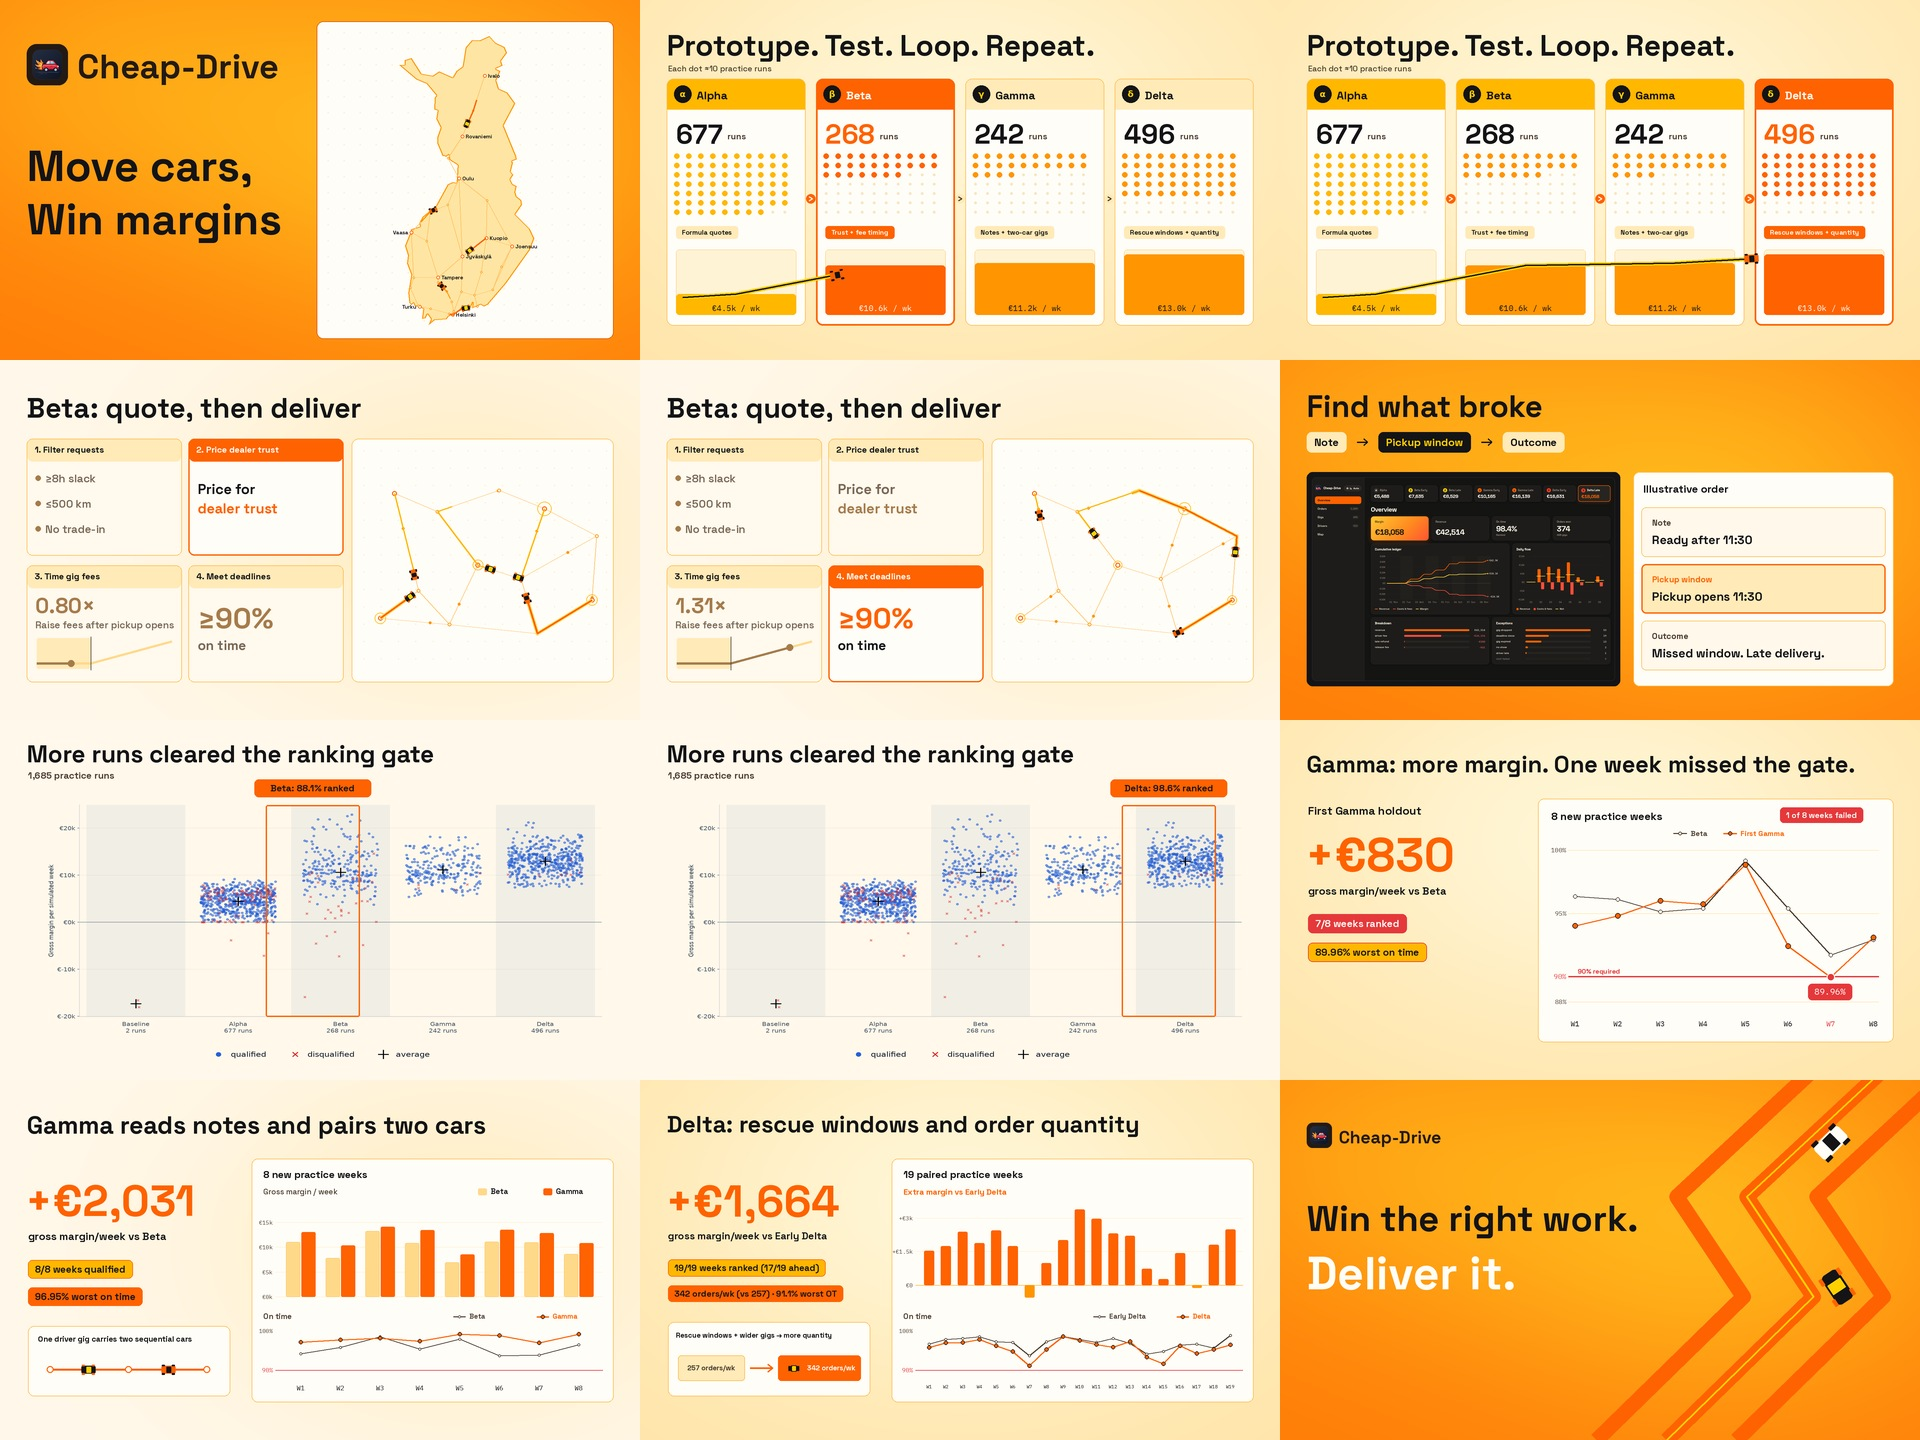
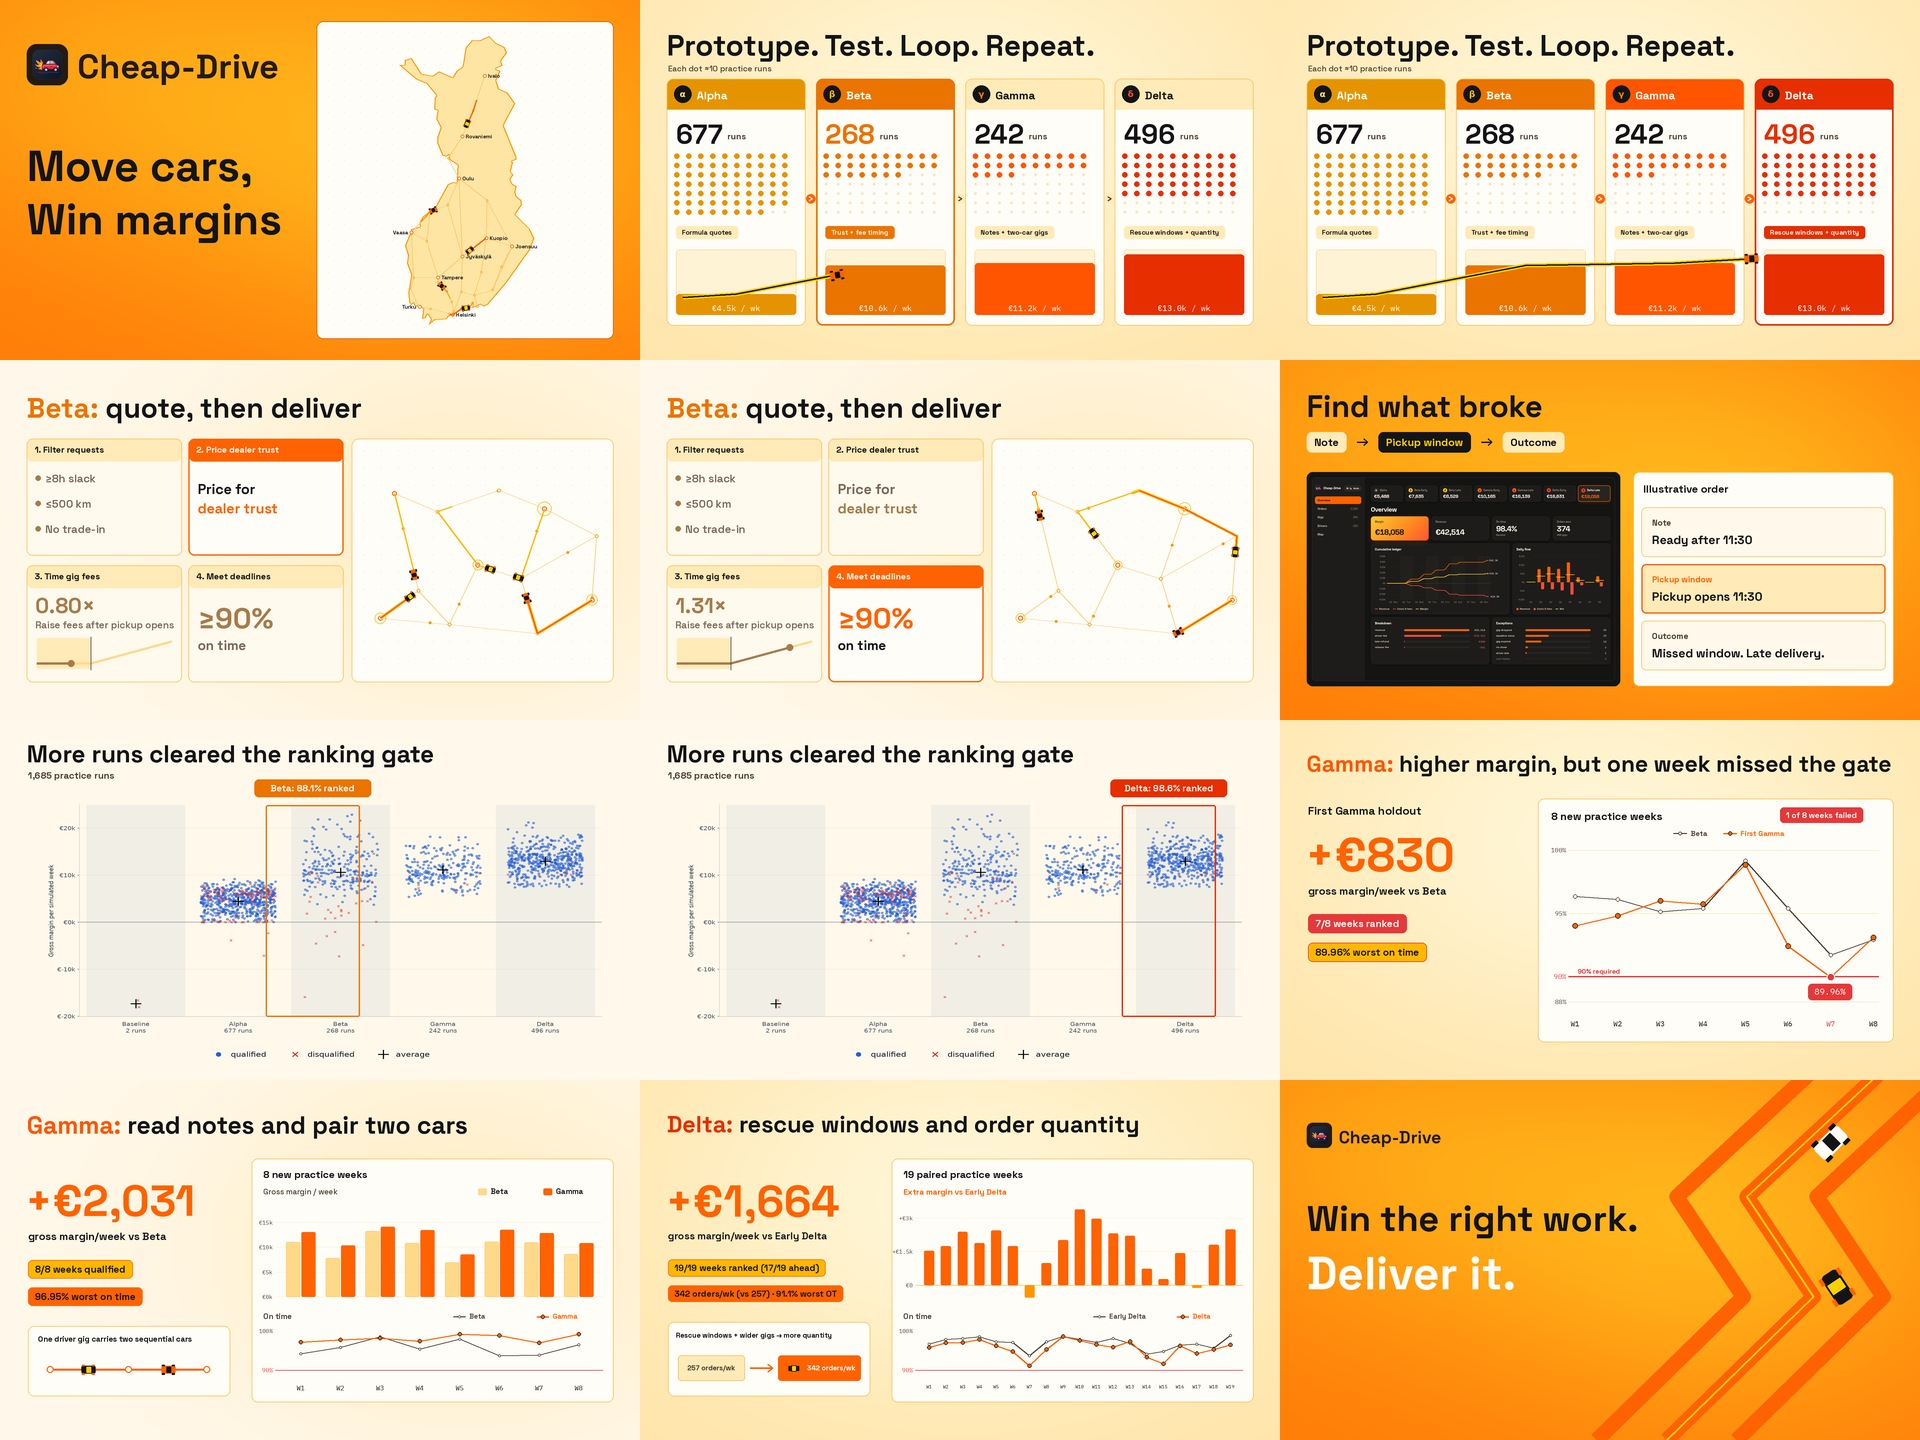
Fix Slide 6 heading sentence and color model names in slide headers

diff --git a/docs/demo-video/index.html b/docs/demo-video/index.html
@@ -40,8 +40,8 @@
 </head>
 <body>
   <main class="stage">
-    <video controls autoplay loop playsinline preload="auto" poster="poster.png?v=1685s" src="cheap-drive-demo.mp4?v=1685s">
-      <track kind="captions" src="captions.vtt?v=1685s" srclang="en" label="English">
+    <video controls autoplay loop playsinline preload="auto" poster="poster.png?v=1685t" src="cheap-drive-demo.mp4?v=1685t">
+      <track kind="captions" src="captions.vtt?v=1685t" srclang="en" label="English">
     </video>
   </main>
 </body>

diff --git a/docs/demo-video/render.py b/docs/demo-video/render.py
@@ -172,6 +172,20 @@ def enter(im, text, x, y, size, t, delay=0, color=INK, weight=600, mono=False, s
     im.paste(layer, (0, 0), layer)
 
 
+def enter_model_hdr(im, model_prefix, rest_text, x, y, size, t, delay=0, model_color=ORANGE, rest_color=INK, weight=700, span=0.38):
+    p = ease((t - delay) / span)
+    if p <= 0:
+        return
+    layer = Image.new('RGBA', (W, H))
+    yy = y + (1 - p) * 28
+    txt(layer, model_prefix, x, yy, size, model_color, weight)
+    pw = font(size, weight).getbbox(model_prefix)[2]
+    txt(layer, rest_text, x + pw, yy, size, rest_color, weight)
+    if p < 1:
+        layer.putalpha(layer.getchannel('A').point(lambda a: round(a * p)))
+    im.paste(layer, (0, 0), layer)
+
+
 def route_point(points, p):
     p = clamp(p)
     ds = [math.dist(points[i], points[i + 1]) for i in range(len(points) - 1)]
@@ -462,14 +476,14 @@ def evolution(t):
     focus_idx = min(3, int(p_car * 3.999))
 
     protos = [
-        ('α', 'Alpha', 677, 68, 4466, 'Formula quotes', MARIGOLD),
-        ('β', 'Beta', 268, 27, 10602, 'Trust + fee timing', MANGO),
-        ('γ', 'Gamma', 242, 24, 11157, 'Notes + two-car gigs', MANGO),
-        ('δ', 'Delta', 496, 50, 12975, 'Rescue windows + quantity', MANGO),
+        ('α', 'Alpha', 677, 68, 4466, 'Formula quotes', '#E59400', '#FFE066'),
+        ('β', 'Beta', 268, 27, 10602, 'Trust + fee timing', '#EB7300', '#FFB700'),
+        ('γ', 'Gamma', 242, 24, 11157, 'Notes + two-car gigs', '#FF5500', '#FF8000'),
+        ('δ', 'Delta', 496, 50, 12975, 'Rescue windows + quantity', '#E62E00', '#FF4D2E'),
     ]
 
     curve_pts = []
-    for i, (greek_sym, name, r_cnt, n_dots, mgn, tag, col) in enumerate(protos):
+    for i, (greek_sym, name, r_cnt, n_dots, mgn, tag, col, greek_col) in enumerate(protos):
         cx = 80 + i * 448
         cw = 416
         cy, cy2 = 236, 976
@@ -477,20 +491,20 @@ def evolution(t):
         is_focus = i == focus_idx
 
         rect(im, (cx, cy, cx + cw, cy2), CARD, None, r=20)
-        hdr_bg = ORANGE if is_focus else (MARIGOLD if i < focus_idx else APRICOT)
-        hdr_fg = CARD if is_focus else INK
+        hdr_bg = col if is_focus else (col if i < focus_idx else APRICOT)
+        hdr_fg = CARD if i <= focus_idx else INK
         rect(im, (cx, cy, cx + cw, cy + 92), hdr_bg, None, r=20)
         rect(im, (cx, cy + 70, cx + cw, cy + 92), hdr_bg, None, r=0)
-        rect(im, (cx, cy, cx + cw, cy2), None, ORANGE if is_focus else GOLD_LINE, r=20, width=5 if is_focus else 2)
+        rect(im, (cx, cy, cx + cw, cy2), None, col if is_focus else GOLD_LINE, r=20, width=5 if is_focus else 2)
 
         # Greek letter & Name
         circle(im, cx + 48, cy + 46, 26, INK)
-        ImageDraw.Draw(im).text((round(cx + 48), round(cy + 46)), greek_sym, font=GREEK_FONT, fill=SUNBURST, anchor='mm')
+        ImageDraw.Draw(im).text((round(cx + 48), round(cy + 46)), greek_sym, font=GREEK_FONT, fill=greek_col, anchor='mm')
         txt(im, name, cx + 90, cy + 28, 34, hdr_fg, 700)
 
         # Run count & dot matrix
         cnt_now = round(r_cnt * appear)
-        txt(im, f'{cnt_now}', cx + 28, cy + 114, 82, ORANGE if is_focus else INK, 700)
+        txt(im, f'{cnt_now}', cx + 28, cy + 114, 82, col if is_focus else INK, 700)
         txt(im, 'runs', cx + 28 + font(82, 700).getbbox(f'{cnt_now}')[2] + 14, cy + 156, 26, MUTED_INK, 650)
 
         gx0, gy0 = cx + 30, cy + 232
@@ -498,9 +512,9 @@ def evolution(t):
             dx = gx0 + (d_idx % 10) * 36
             dy = gy0 + (d_idx // 10) * 28
             active_dot = d_idx < round(n_dots * appear)
-            circle(im, dx, dy, 8 if active_dot else 4, (ORANGE if is_focus else col) if active_dot else '#F7E6C4')
+            circle(im, dx, dy, 8 if active_dot else 4, col if active_dot else '#F7E6C4')
 
-        badge(im, tag, cx + 28, cy + 442, color=CARD if is_focus else INK, bg=ORANGE if is_focus else APRICOT, size=20)
+        badge(im, tag, cx + 28, cy + 442, color=CARD if is_focus else INK, bg=col if is_focus else APRICOT, size=20)
 
         # Rising weekly margin bar at bottom of card
         bar_base = cy2 - 32
@@ -508,10 +522,10 @@ def evolution(t):
         bh = max_h * (mgn / 14000.0) * appear
         by = bar_base - bh
         rect(im, (cx + 28, bar_base - max_h, cx + cw - 28, bar_base), '#FFF3D6', outline=GOLD_LINE, r=10)
-        rect(im, (cx + 28, by, cx + cw - 28, bar_base), ORANGE if is_focus else col, r=10)
+        rect(im, (cx + 28, by, cx + cw - 28, bar_base), col, r=10)
         lbl_mgn = f'€{mgn / 1000:.1f}k / wk'
         if appear > 0.35:
-            txt(im, lbl_mgn, cx + cw / 2, bar_base - 36, 24, CARD if is_focus else INK, mono=True, weight=700, anchor='ma')
+            txt(im, lbl_mgn, cx + cw / 2, bar_base - 36, 24, CARD, mono=True, weight=700, anchor='ma')
         if i == 0:
             curve_pts.append((cx + 48, by + 10))
         curve_pts.append((cx + cw / 2, by))
@@ -542,7 +556,7 @@ def evolution(t):
 # ---------------------------------------------------------------------------
 def dispatcher(t):
     im = base_canvas('citrus').copy()
-    enter(im, 'Beta: quote, then deliver', 80, 90, 84, t, .05, weight=700)
+    enter_model_hdr(im, 'Beta:', ' quote, then deliver', 80, 90, 84, t, .05, model_color='#EB7300', rest_color=INK, weight=700)
     phase = min(3, int(t / 1.7))
     cards = [
         (80, 236, '1. Filter requests'),
@@ -650,22 +664,23 @@ def experiments(t):
     txt(im, '1,685 practice runs', 84, 148, 28, MUTED_INK, 650)
 
     stages = [
-        (1, 'Alpha: 84.6% ranked'),
-        (2, 'Beta: 88.1% ranked'),
-        (3, 'Gamma: 97.9% ranked'),
-        (4, 'Delta: 98.6% ranked'),
+        (1, 'Alpha: 84.6% ranked', '#E59400', INK),
+        (2, 'Beta: 88.1% ranked', '#EB7300', CARD),
+        (3, 'Gamma: 97.9% ranked', '#FF5500', CARD),
+        (4, 'Delta: 98.6% ranked', '#E62E00', CARD),
     ]
     if t > 0.4:
         frac = clamp((t - 0.4) / 6.8)
         pos = mix(0.0, 3.0, smooth(frac))
         col = 1.0 + pos
         stage_idx = min(3, int(pos + 0.5))
+        _, stage_lbl, stage_bg, stage_fg = stages[stage_idx]
         cx = 80 + 1760 * (0.09 + 0.89 * (col + 0.55) / 5.00)
         hw = 1760 * (0.89 * 0.45 / 5.00)
-        rect(im, (cx - hw, 230 + 825 * 0.03, cx + hw, 230 + 825 * 0.80), None, ORANGE, r=6, width=4)
+        rect(im, (cx - hw, 230 + 825 * 0.03, cx + hw, 230 + 825 * 0.80), None, stage_bg, r=6, width=4)
         badge_w = 350
         bx = clamp(cx - badge_w / 2, 80, 1840 - badge_w)
-        badge(im, stages[stage_idx][1], bx, 178, color=INK, bg=ORANGE, size=28, fixed_w=badge_w)
+        badge(im, stage_lbl, bx, 178, color=stage_fg, bg=stage_bg, size=28, fixed_w=badge_w)
     return im
 
 
@@ -674,7 +689,7 @@ def experiments(t):
 # ---------------------------------------------------------------------------
 def failure(t):
     im = base_canvas('sunburst').copy()
-    enter(im, 'Gamma: more margin. One week missed the gate.', 80, 88, 70, t, .05, weight=700)
+    enter_model_hdr(im, 'Gamma:', ' higher margin, but one week missed the gate', 80, 88, 68, t, .05, model_color='#FF5500', rest_color=INK, weight=700)
     txt(im, 'First Gamma holdout', 84, 250, 34, INK, 650)
     txt(im, f'+€{830.44375 * ease((t - .2) / 1):,.0f}', 76, 314, 142, ORANGE, 700)
     txt(im, 'gross margin/week vs Beta', 84, 492, 32, INK, 650)
@@ -797,7 +812,7 @@ def paired_chart(im, t, rows, baseline, candidate, label, diff_only=False):
 # ---------------------------------------------------------------------------
 def gain(t):
     im = base_canvas('citrus').copy()
-    enter(im, 'Gamma reads notes and pairs two cars', 80, 88, 74, t, .05, weight=700)
+    enter_model_hdr(im, 'Gamma:', ' read notes and pair two cars', 80, 88, 74, t, .05, model_color='#FF5500', rest_color=INK, weight=700)
     txt(im, f'+€{2030.845 * ease((t - .2) / 1):,.0f}', 76, 278, 132, ORANGE, 700)
     txt(im, 'gross margin/week vs Beta', 84, 448, 32, INK, 650)
     badge(im, '8/8 weeks qualified', 84, 540, color=INK, bg=MARIGOLD, border=ORANGE, size=29)
@@ -822,7 +837,7 @@ def gain(t):
 # ---------------------------------------------------------------------------
 def delta_confirm(t):
     im = base_canvas('sunburst').copy()
-    enter(im, 'Delta: rescue windows and order quantity', 80, 88, 70, t, .05, weight=700)
+    enter_model_hdr(im, 'Delta:', ' rescue windows and order quantity', 80, 88, 70, t, .05, model_color='#E62E00', rest_color=INK, weight=700)
     txt(im, f'+€{1663.8205 * ease((t - .2) / 1):,.0f}', 76, 278, 134, ORANGE, 700)
     txt(im, 'gross margin/week vs Early Delta', 84, 448, 30, INK, 650)
     badge(im, '19/19 weeks ranked (17/19 ahead)', 84, 538, color=INK, bg=MARIGOLD, border=ORANGE, size=27)
